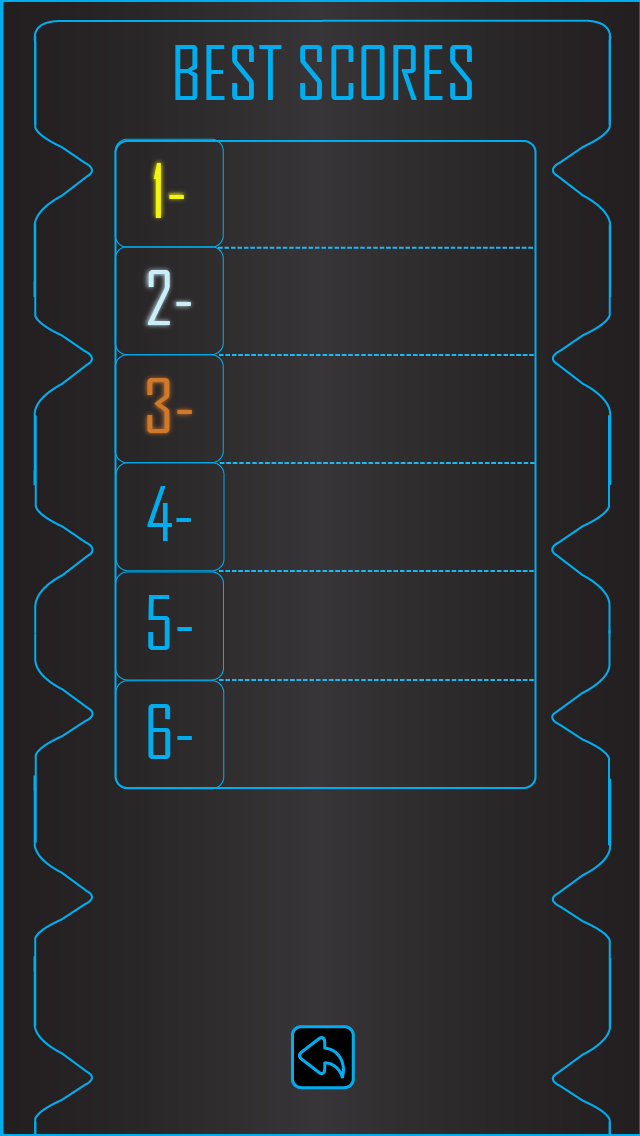
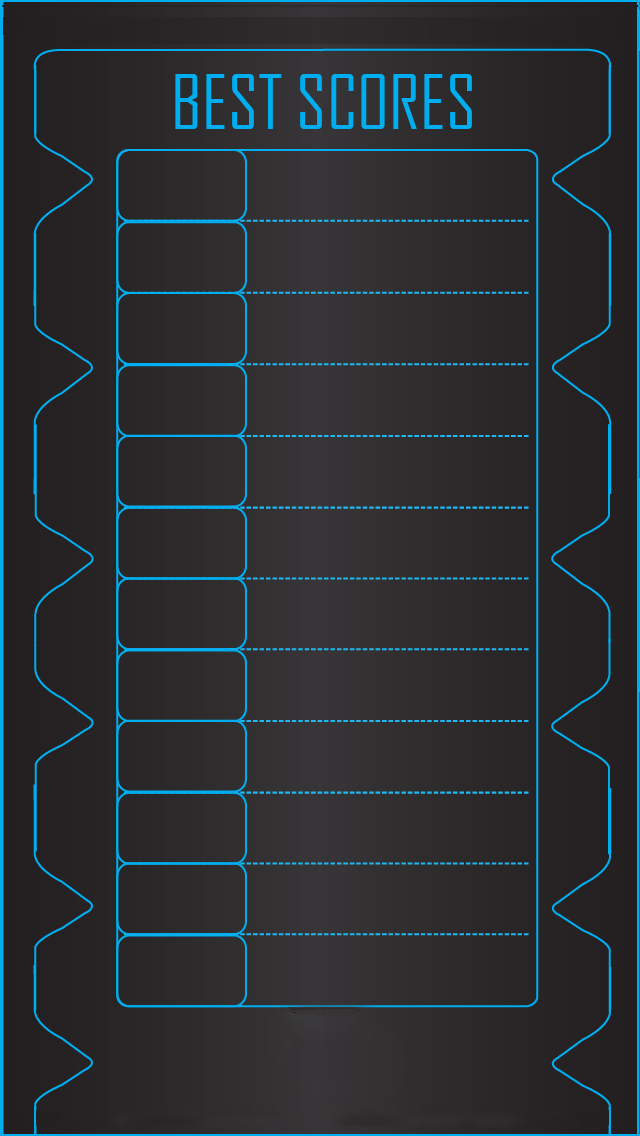
updating best scores assets and labels

diff --git a/SiMYOn/BestScoresViewController.h b/SiMYOn/BestScoresViewController.h
@@ -13,12 +13,20 @@
 
 @property (nonatomic)                NSArray *bestScores;
 
+@property (weak, nonatomic) IBOutlet UIImageView *imgBackground;
+
 @property (weak, nonatomic) IBOutlet UILabel *lblPlayer1;
 @property (weak, nonatomic) IBOutlet UILabel *lblPlayer2;
 @property (weak, nonatomic) IBOutlet UILabel *lblPlayer3;
 @property (weak, nonatomic) IBOutlet UILabel *lblPlayer4;
 @property (weak, nonatomic) IBOutlet UILabel *lblPlayer5;
 @property (weak, nonatomic) IBOutlet UILabel *lblPlayer6;
+@property (weak, nonatomic) IBOutlet UILabel *lblPlayer7;
+@property (weak, nonatomic) IBOutlet UILabel *lblPlayer8;
+@property (weak, nonatomic) IBOutlet UILabel *lblPlayer9;
+@property (weak, nonatomic) IBOutlet UILabel *lblPlayer10;
+@property (weak, nonatomic) IBOutlet UILabel *lblPlayer11;
+@property (weak, nonatomic) IBOutlet UILabel *lblPlayer12;
 
 @property (weak, nonatomic) IBOutlet UILabel *lblScorePlayer1;
 @property (weak, nonatomic) IBOutlet UILabel *lblScorePlayer2;
@@ -26,6 +34,12 @@
 @property (weak, nonatomic) IBOutlet UILabel *lblScorePlayer4;
 @property (weak, nonatomic) IBOutlet UILabel *lblScorePlayer5;
 @property (weak, nonatomic) IBOutlet UILabel *lblScorePlayer6;
+@property (weak, nonatomic) IBOutlet UILabel *lblScorePlayer7;
+@property (weak, nonatomic) IBOutlet UILabel *lblScorePlayer8;
+@property (weak, nonatomic) IBOutlet UILabel *lblScorePlayer9;
+@property (weak, nonatomic) IBOutlet UILabel *lblScorePlayer10;
+@property (weak, nonatomic) IBOutlet UILabel *lblScorePlayer11;
+@property (weak, nonatomic) IBOutlet UILabel *lblScorePlayer12;
 
 - (IBAction)returnAction:(id)sender;
 
